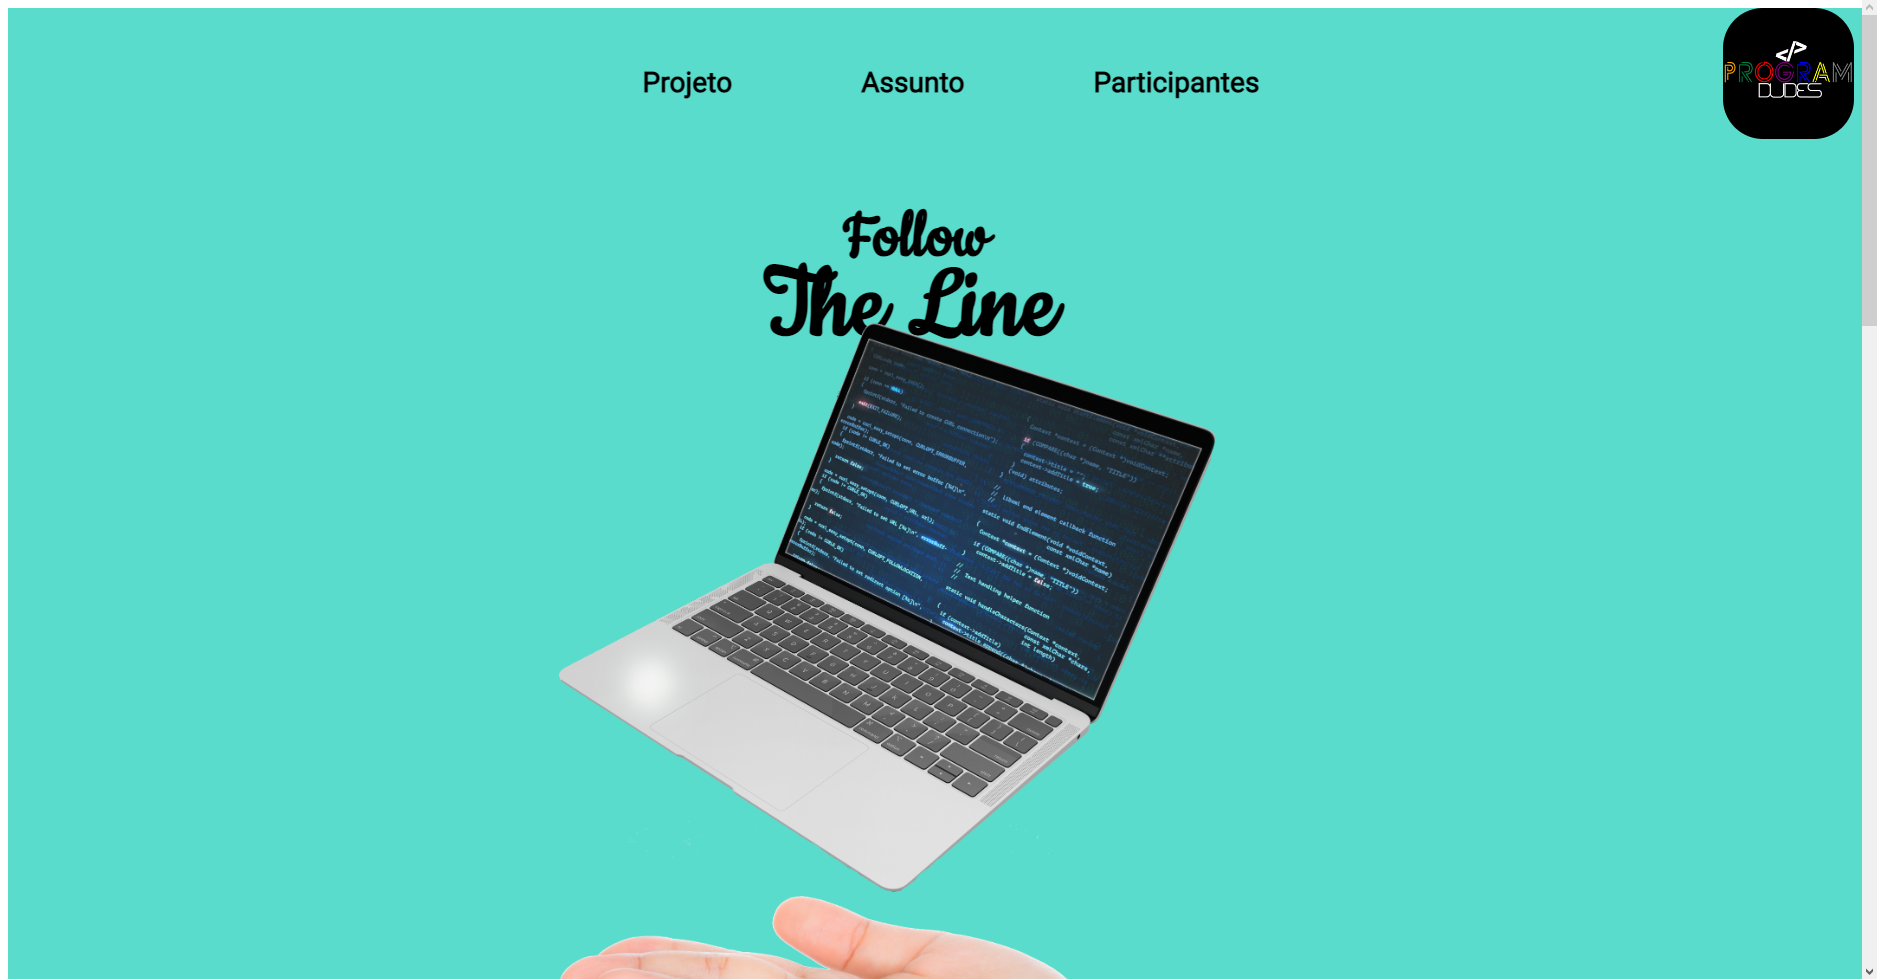
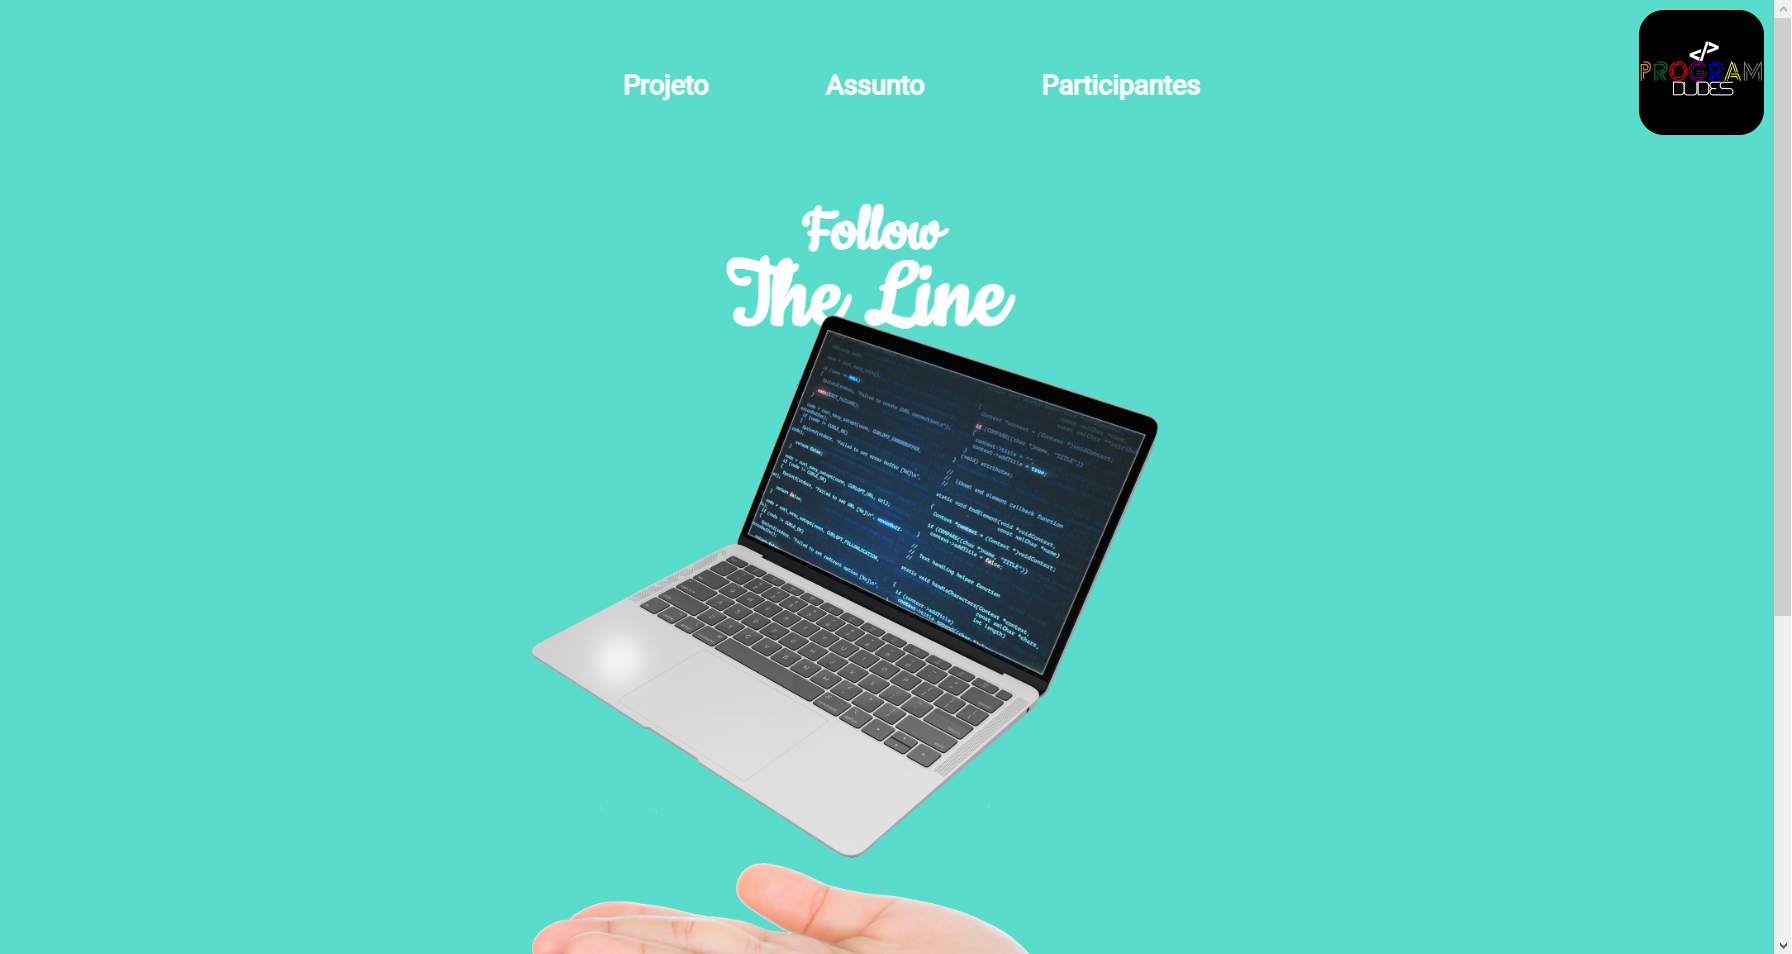
UPDATE img

diff --git a/index.html b/index.html
@@ -17,7 +17,7 @@
         </nav>
     </header>
     <div data-aos="flip-right"><img  class="logo" src="./hux/img/PROGRAMDUDES.png" /></div>
-    <div class="bg">
+    
         <h1 class="fol">Follow</h1>
         <h1 class="tli">The Line</h1>
 
@@ -25,14 +25,13 @@
                 <img  class="pcimg" src="./hux/img/1458.png" />
                 <img  class="handimg" src="./hux/img/open-hand-white-background.png" />
         </div>
-        
-
-    </div>
-    <footer>
+    <footer id="footer">
         <a href="https://www.freepik.com/free-psd/laptop-mock-up-isolated_4075239.htm#query=laptop&position=4&from_view=search&track=sph">Laptop Image by zlatko_plamenov</a> on Freepik
         <a href="https://www.freepik.com/free-photo/open-hand-white-background_978612.htm#page=2&query=hand&position=1&from_view=search&track=sph">Hand Image by jannoon028</a> on Freepik
         <a href="https://www.freepik.com/free-vector/software-engineering-background_1528600.htm#query=code&position=2&from_view=search&track=sph">Code Image by macrovector</a> on Freepik
     </footer>
+
+
     <script src="https://unpkg.com/aos@next/dist/aos.js"></script>
     <script>
       AOS.init();

diff --git a/hux/css/style.css b/hux/css/style.css
@@ -3,6 +3,7 @@
 
 body{
     overflow-x: hidden;
+    background-color: #59DCCC;
 }
 
 header{
@@ -20,28 +21,21 @@ ul{
 }
 
 .logo{
-    position: absolute;
+    position: fixed;
     right: 0;
-    border-radius: 30pt;
+    border-radius: 15pt;
     width: 7vw;
 }
 
 a{
     font-size: 1.5vw;
     text-decoration: none;
-    color: black;
+    color: white;
     font-family: 'Roboto', sans-serif;
     font-weight: bolder;   
 }
 
 /*TODO a hover*/
-
-.bg{
-    width: 99vw;
-    height: 300vh;
-    margin: 0;
-    background-color: #59DCCC;
-}
 
 h1{
     margin: 0;
@@ -51,6 +45,7 @@ h1{
 .fol{
     position:absolute;
     left: 50%;
+    color: white;
     transform: translateX(-60%);
     top: 20%;
     font-size: 4vw;
@@ -59,6 +54,7 @@ h1{
 .tli{
     position:absolute;
     left: 50%;
+    color: white;
     transform: translateX(-57%);
     top: 25%;
     font-size: 6vw;
@@ -76,4 +72,9 @@ h1{
 
 .pcimg{
     width: 35vw;
+}
+
+#footer {
+    position: absolute;
+    top: 150vh;
 }
